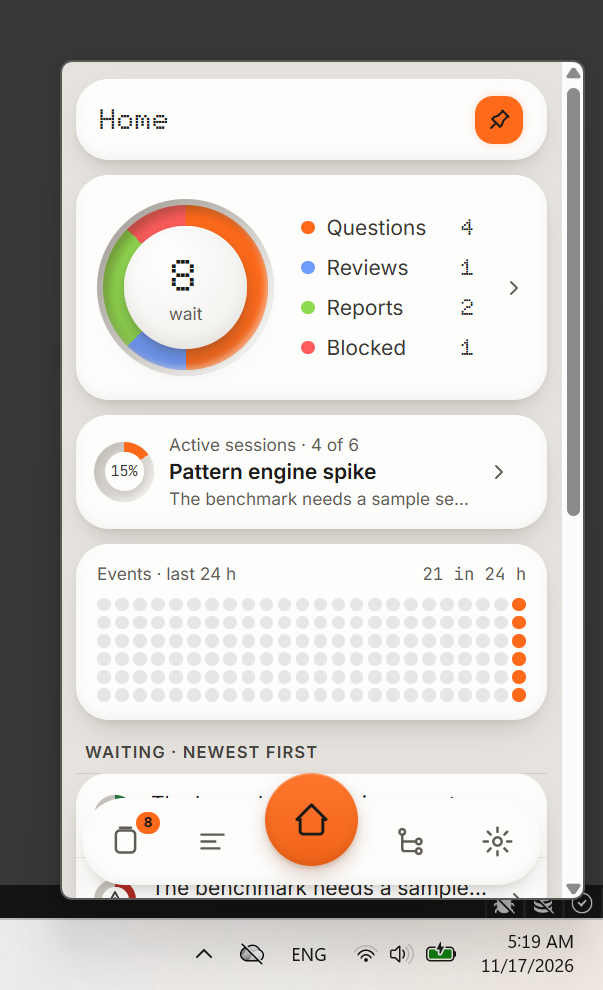
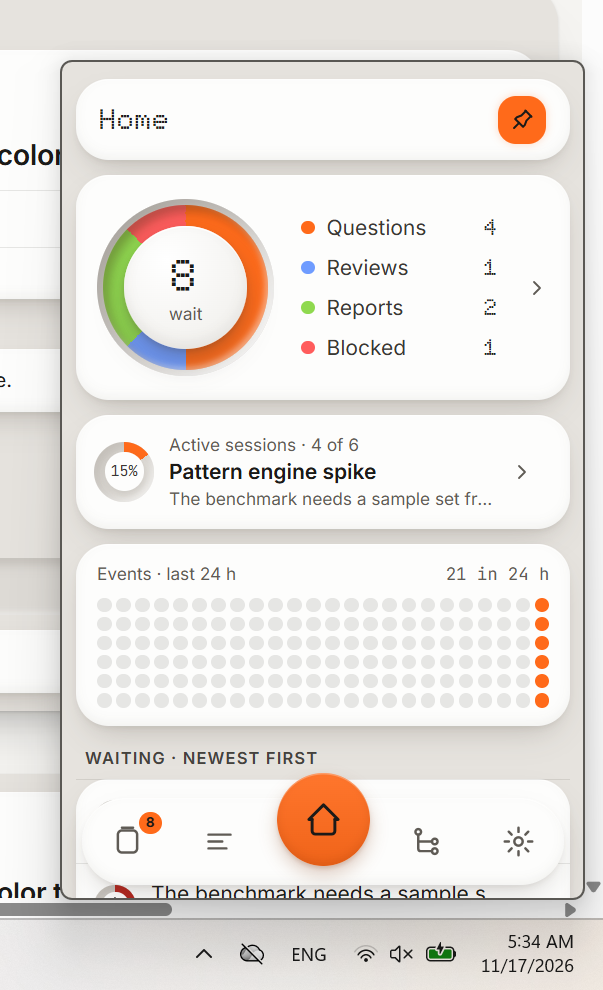
Record the I1 live tray test and its screenshots
- docs/plan.md: the I1 result, the live test with real question
  cards, the default timer, one answer from the widget that reached
  the child, and the findings I1-1 to I1-4.
- docs/screens/tray-live-*.png: the widget in the desktop corner on
  the live store.
- tray.ps1 -Live <store> -Port <port> starts the live mode.
- docs/store.md: the writer id tray.

diff --git a/session-orchestrator/docs/plan.md b/session-orchestrator/docs/plan.md
@@ -904,7 +904,7 @@ A root started 3 children with `spawn_child`. Child 1 picked 27. Child 2 asked w
 - A4 change for the header icon only: `PageHeader.razor` replaces the header of Home, Cards, Stream, Sessions and Settings. It also adds the `pin` icon to `Ui.Icons`. On the web server there is no `IWidgetWindow`, so the header has the same markup as before. The pin style is in the tray `tray.css`, not in `app.css`.
 - The widget shows the A4 views of `Orchestrator.Web` (PR #15, merged into this branch) through a project reference. No change in `Orchestrator.Web`.
 - Mock data: a new store in a temporary folder (`MockStore`). The real store does not change. No tick service, no claude process (`NoRunner`).
-- Self-test (`.	ray.ps1 -SelfTest`): PASS for 8 views and the widget check: size 525 × 840 pixels at 144 DPI, at the home location. It also copies the screen corner to `tray-desktop-corner.png`.
+- Self-test (`.\tray.ps1 -SelfTest`): PASS for 8 views and the widget check: size 525 × 840 pixels at 144 DPI, at the home location. It also copies the screen corner to `tray-desktop-corner.png`.
 - Self-test of the behaviors: PASS. Pin: two clicks set TopMost off, then on. Drag: a real mouse drag (SendInput) moves the widget from 2017,670 to 1777,490, and the place file has 1777,490. Toggle: hide, then show again at the saved place. The drag check moves the mouse pointer for about one second.
 - `dotnet test --solution Orchestrator.slnx`: 159 passed, 0 failed.
 - Screenshots: `docs/screens/tray-*.png` and `docs/screens/tray-desktop-corner.png`.
@@ -912,6 +912,45 @@ A root started 3 children with `spawn_child`. Child 1 picked 27. Child 2 asked w
 - Finding (A4): at the widget height of 560, the Cards page puts the action buttons behind the bottom app bar. The self-test opens the answer sheet with a script click on the left button.
 - Finding (A4): on Session status, the sticky Message and Event stream bar covers Stop and Archive until the user scrolls.
 - `install.ps1` is not run yet. It needs the approval of the user.
+## I1 result: T1 + Q1 integration, live tray (2026-11-17)
+
+Branch `orch/integration-t1-q1`: Q1 (`orch/session-913e5c4c`) with T1 (`orch/session-88155eec`, the tray widget and the A4 views) merged in.
+
+| Part | Result |
+|---|---|
+| Merge conflicts | `docs/plan.md`: both sides kept. `EventCard.razor` and `Timeline.razor`: deleted, as in T1 (the A4 views replace them) |
+| A4 views on the kind `question` | `Ui.cs`, `Open.razor`, `EventRow.razor`, `MockStore.cs`, `DemoSeed.cs` and `InboxUiTests.cs` use `EventKinds.Question`. `DecisionKinds.Of(fields)` gives the sub-type: `ask_user` with a risk or a default, else `query`. The label is "Decision" or "Question", and the field rows and the card actions follow the sub-type. The look does not change |
+| Scroll bar | `tray.css` hides the browser scroll bar in the widget. The page scrolls with the wheel, touch and keys |
+| Taskbar gap | The home location has a gap of 12 logical pixels above the work area (18 px at 144 DPI), as the runner. A saved place or a drop on the edge moves in to the same gap (`WidgetForm.Fit`) |
+| Live mode | `Orchestrator.Tray --live <store> [--port <port>]` (`tray.ps1 -Live <store> -Port <port>`). The tray writes with the writer id `tray` and runs no tick (`SupervisorOptions.Ticks` false). The supervisor process of the store delivers. Mock mode stays the default |
+| Unit tests | `dotnet test --solution Orchestrator.slnx`: 221 passed, 1 skipped (`Seed_a_demo_store`, explicit) |
+| Tray self-test | PASS for 8 views and the checks widget, taskbar-gap (18 px), no-scroll-bar (0 px), desktop-corner, pin, drag and toggle |
+
+### Live test (scratchpad store, port 7841, plugin of the worktree)
+
+A supervisor of this branch (published copy, `ORCH_IMPORT=0`, the `orch` tool of this branch first in `PATH`) and the tray in live mode on the same store. The policy level medium had a timeout of 420 s, so the timer shows on the card. The root started 3 children with `spawn_child`.
+
+| Check | Result |
+|---|---|
+| Real question cards in the widget | ✅ "Question · Sum child A" (no default, the context row "Why") and "Decision · Sum child B" (options 8 and 12, default 8) |
+| Default timer (`defaultAt`) | ✅ The card of child B showed the ring with 6:19 left. The policy answered 8 at 05:47:02 |
+| Answer from the widget | ✅ Type, "9", Send. Envelope `1794890478426-cb7773ae-tray`: `answer` from `user` to child A, reply to the question |
+| The answer reached the child | ✅ Child A ran a turn at once and reported "Child A: 9". The session stream shows question, answer and report |
+| Sum | ✅ The root reported "Total: 44 (9 + 8 + 27)" |
+| Default for review | ✅ The card "Review · default" for child B: "8 · level medium, no answer in 420 s" |
+| No tick in the tray | ✅ All turns, relays and the default came from the supervisor process |
+
+Screenshots (desktop corner, live data): `docs/screens/tray-live-home.png`, `tray-live-card-a.png`, `tray-live-card-b.png`, `tray-live-answer-sheet.png`, `tray-live-answer-sent.png`, `tray-live-stream.png`, `tray-live-sessions.png`, `tray-live-session-status.png`, `tray-live-session-stream.png`, `tray-live-card-review.png`.
+
+### Findings
+
+| # | Finding | State |
+|---|---|---|
+| I1-1 | A Git Bash `PATH` entry with a drive letter (`C:/...`) splits at the colon. The first root used the old global `orch`, which needs `templates/brief/render.md`, and `spawn_child` failed. With `/c/...` the test `orch` was first | Test note: use the `/c/...` form. Install the global tool again after the merge (A3-3) |
+| I1-2 | The tray in live mode does not know the turns of the supervisor process, so `IsRunning` is false in the tray. The views show the lease and the state files | Accepted |
+| I1-3 | A script drove the widget through the WebView2 debug port (`WEBVIEW2_ADDITIONAL_BROWSER_ARGUMENTS=--remote-debugging-port=<port>`) with clicks on the real buttons. No code change | Test note |
+| I1-4 | The supervisor sent "Archive ... from the app sidebar" messages for the done children, with `ORCH_IMPORT=0` | Open: examine if these messages are necessary when no session was imported |
+
 ## A4 design: inbox UI (2026-11-17)
 
 The user approved the design after four rounds. The design page is `docs/inbox-design.html` (https://claude.ai/artifact/RbSF83MgxWHbWo5V3JsGEE).

diff --git a/session-orchestrator/docs/store.md b/session-orchestrator/docs/store.md
@@ -36,7 +36,7 @@ There is no other communication file. The inbox, the answers, the reviews, the r
 
 | Field | Use |
 |---|---|
-| `id` | `<ms>-<8 hex>-<writer>`. The ids of one writer always grow. The writer is `supervisor` (the supervisor, or the plugin in a supervisor turn), `cli` or `live` |
+| `id` | `<ms>-<8 hex>-<writer>`. The ids of one writer always grow. The writer is `supervisor` (the supervisor, or the plugin in a supervisor turn), `cli`, `live` or `tray` (the tray app in live mode) |
 | `session` | The session that the envelope is about |
 | `from`, `to` | `user`, `supervisor`, `docs`, `policy` or `session:<full id>`. One receiver for each envelope |
 | `subject` | One line of 80 characters maximum. One rule in `Subjects.Of` (C#) and `subject` (`stream.ts`); the contract tests check both |
